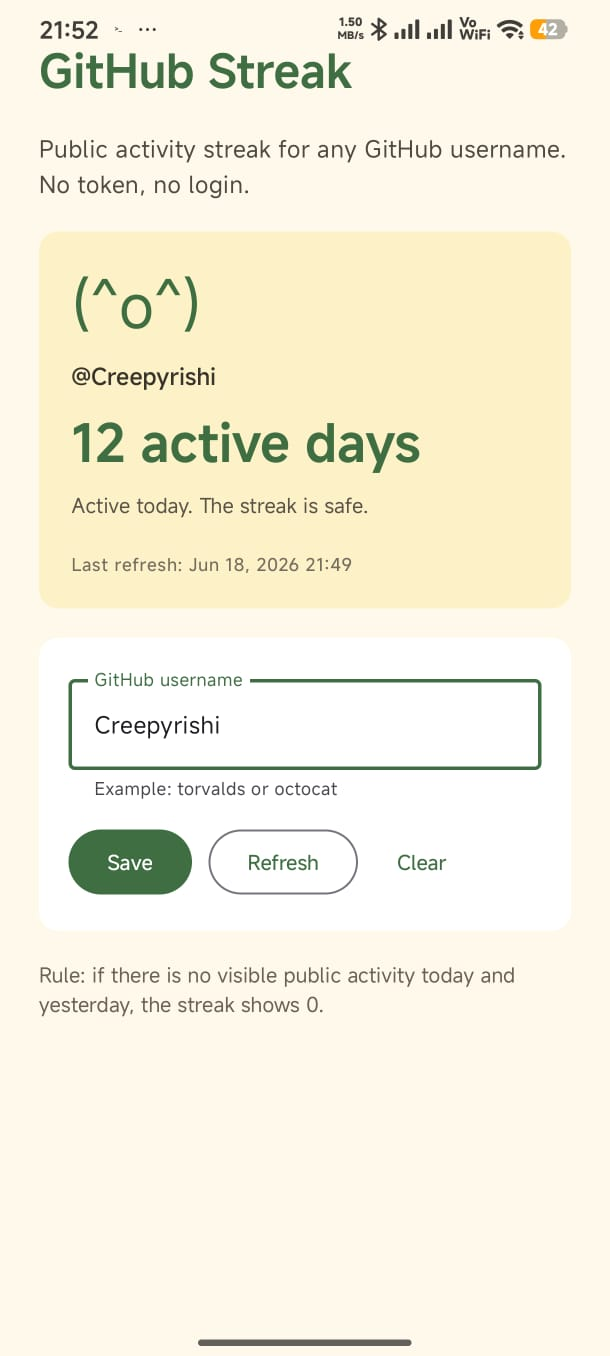
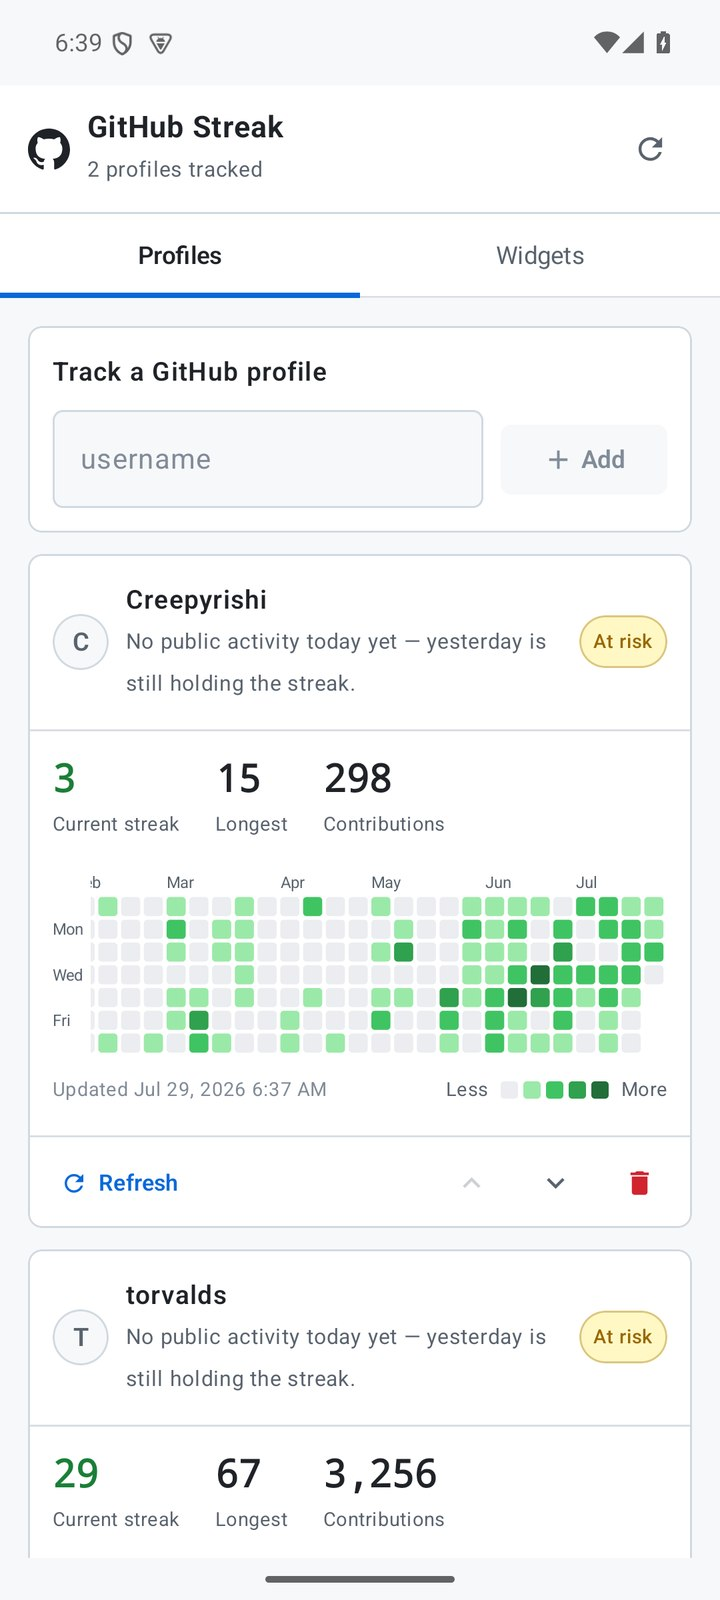
Replace README screenshots with the reworked app
The linked images still showed the v1.0 cream theme, single username field
and ASCII mascot. Captured from a Pixel 6 emulator on the current build:
the home screen running two streak and two contribution-graph widgets for
two different accounts, the Profiles tab in light and dark, and the Widgets
tab.

diff --git a/README.md b/README.md
@@ -17,9 +17,16 @@ This app is vibe coded.
 ## Screenshots
 
 <p>
-  <img src="imgs/inapp_image.jpeg" alt="GitHub Streak app screen" width="280">
-  <img src="imgs/home.jpeg" alt="GitHub Streak home-screen widget" width="280">
+  <img src="imgs/home.jpeg" alt="Streak and contribution-graph widgets for two profiles" width="240">
+  <img src="imgs/inapp_image.jpeg" alt="Profiles tab" width="240">
+  <img src="imgs/app_dark.jpeg" alt="Profiles tab in dark mode" width="240">
 </p>
+<p>
+  <img src="imgs/widget_manager.jpeg" alt="Widgets tab listing every placed widget" width="240">
+</p>
+
+Left to right: two streak widgets and two contribution-graph widgets tracking different accounts,
+the Profiles tab, the same screen in dark mode, and the Widgets tab.
 
 ## Features
 
